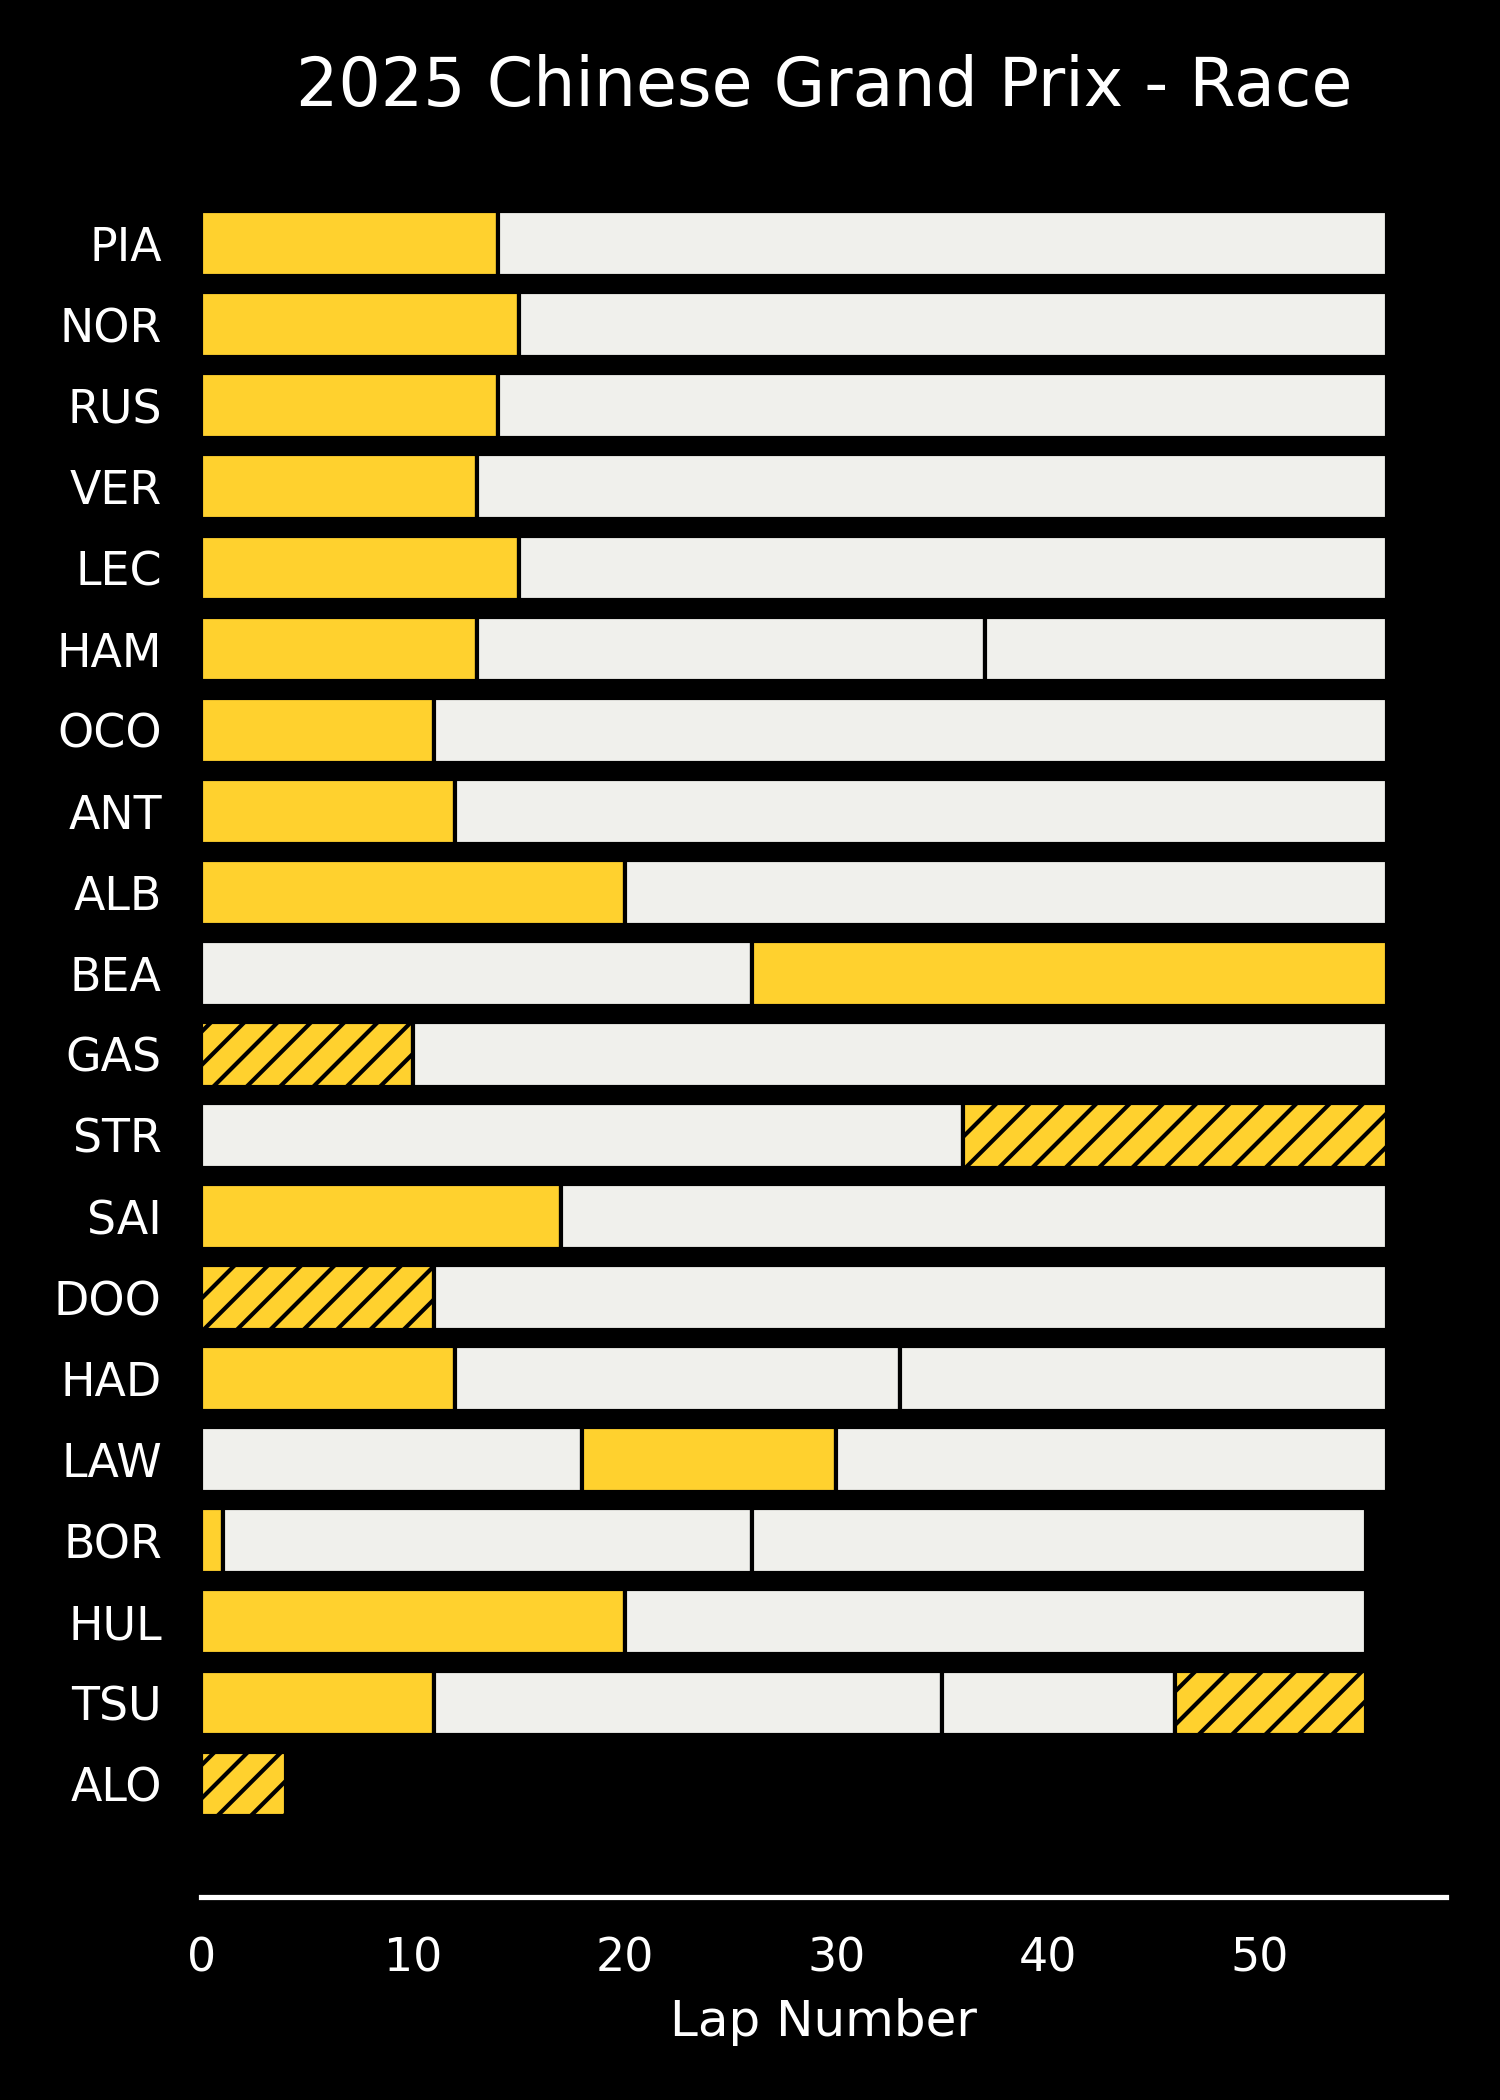
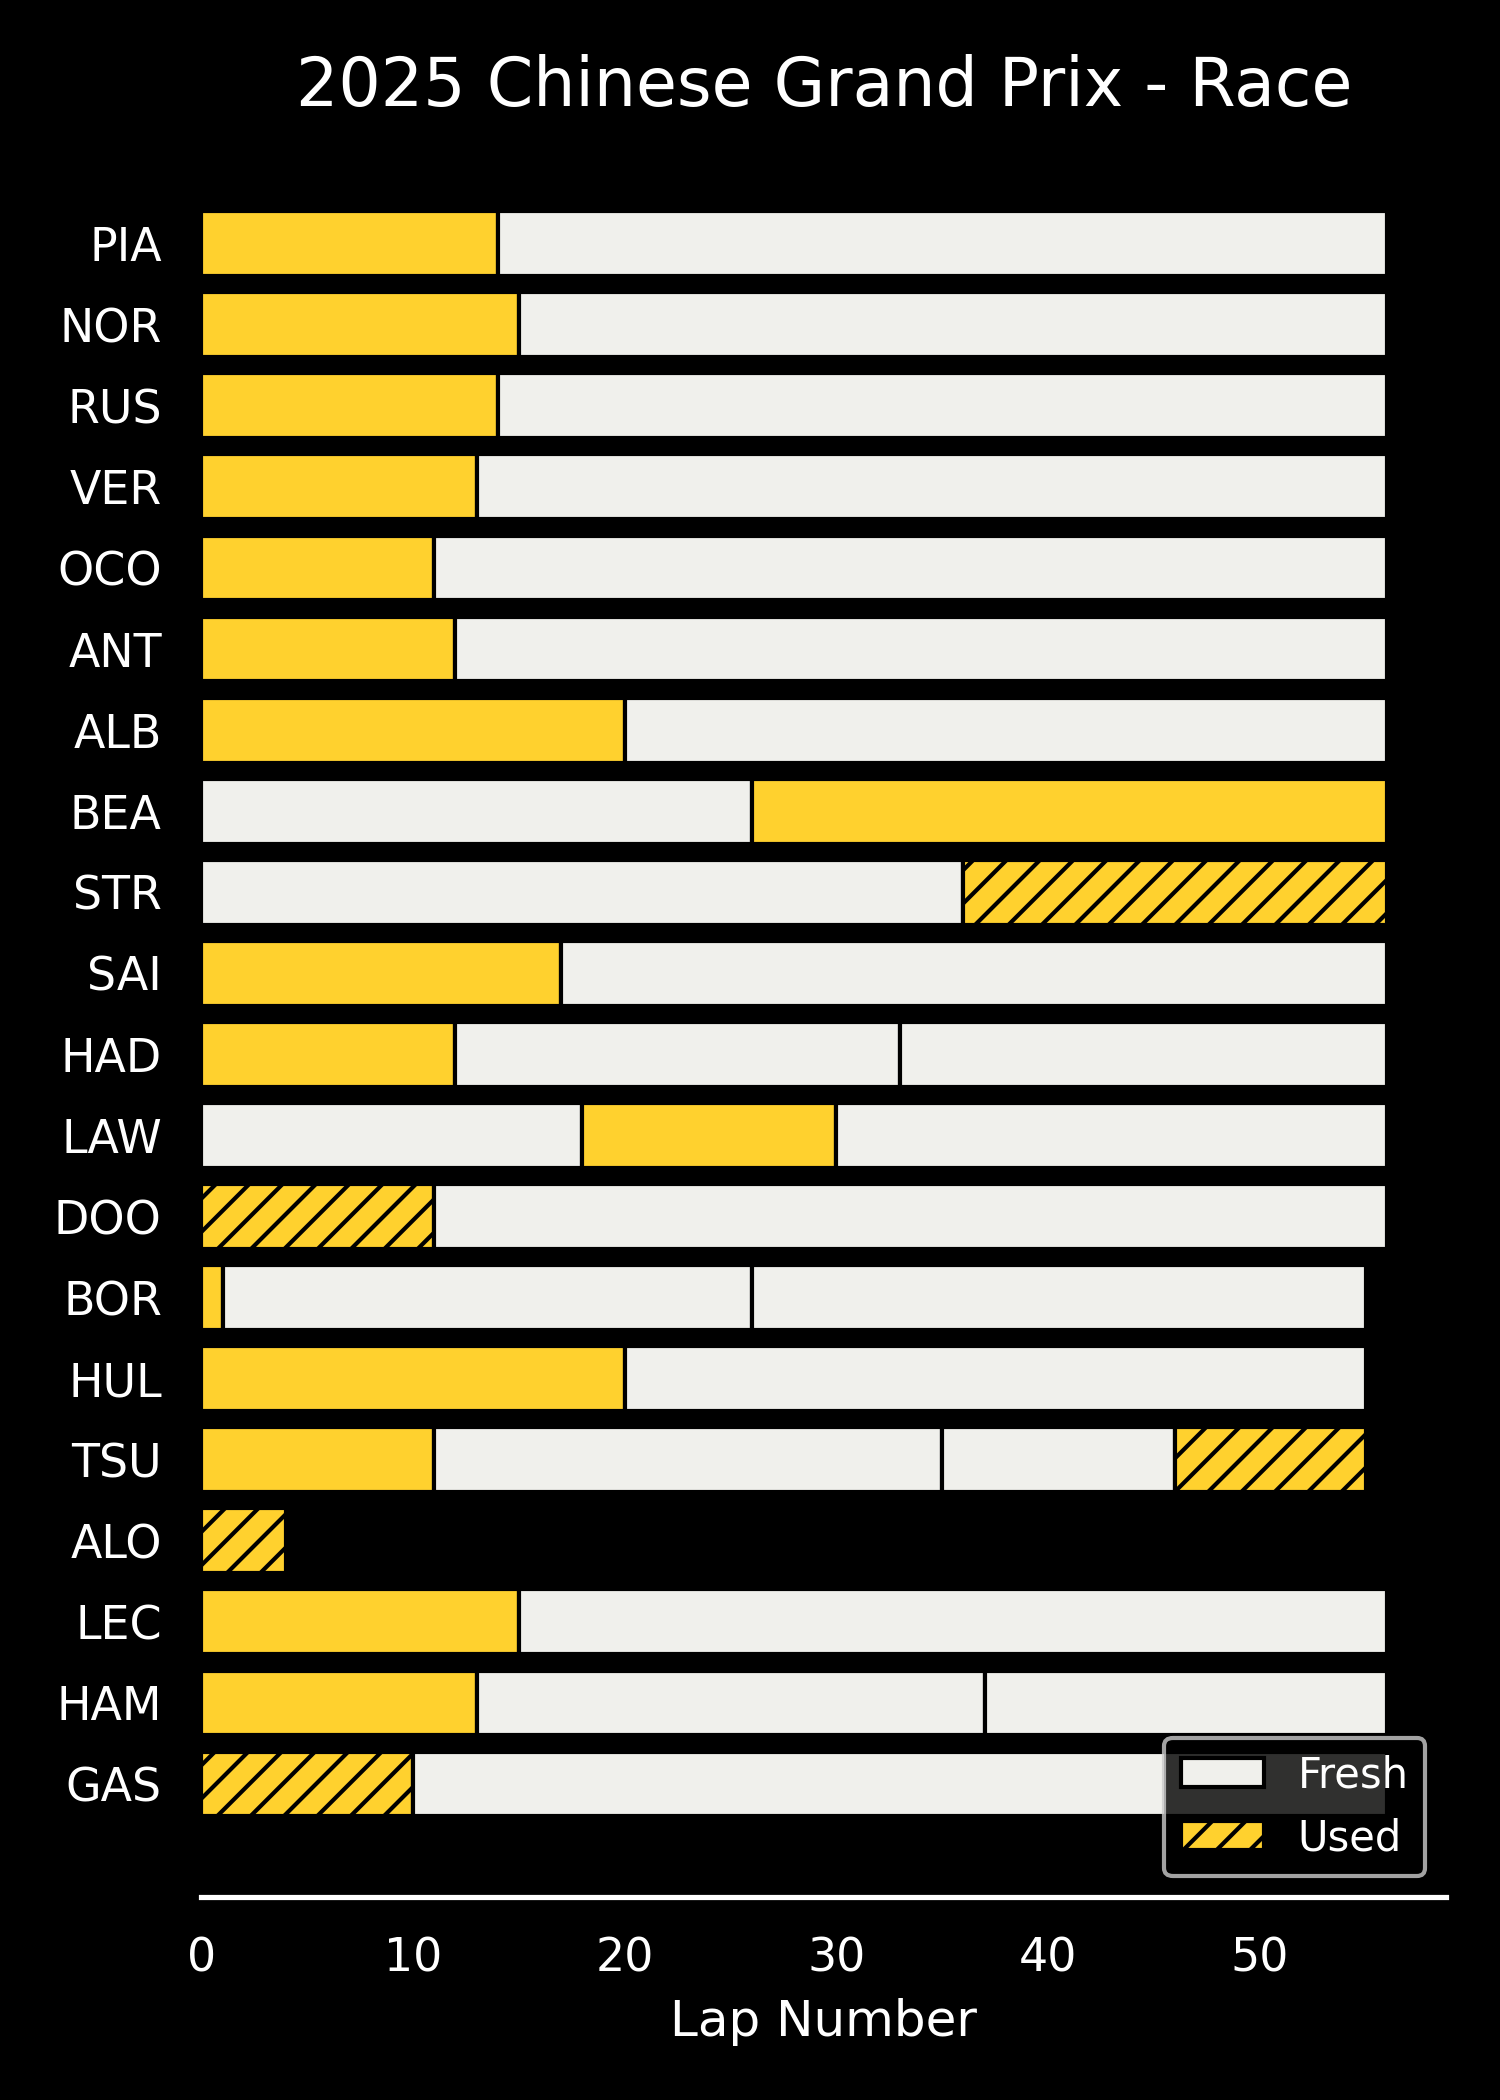
Add FreshTyre legend to strategy plot

Changed region(s): [[0.0307, 0.2476, 0.9507, 0.8976], [0.4907, 0.3714, 0.9507, 0.4952], [0.6133, 0.5262, 0.9507, 0.5571]]

diff --git a/f1_visualization/visualization.py b/f1_visualization/visualization.py
@@ -501,14 +501,11 @@ def _shade_sc_periods(sc_laps: np.ndarray, vsc_laps: np.ndarray):
     plot_periods(vsc_laps, "VSC", "-")
 
 
-def _deduplicate_sc_legend(ax: Axes, **kwargs):
+def _deduplicate_legend_labels(ax: Axes, **kwargs):
     """
-    Deduplicate SC legend labels and add legend to the current plot.
+    Add legend to the current plot after deduplicating labels.
 
-    Since the SC and VSC intervals are added to the plots one-by-one, if we call
-    plt.legend() directly there will be duplicate labels in the legend.
-
-    Additional keyword arguments are passed to plt.legend.
+    Useful when labelled elements are added one-by-one, such as when showing SC periods.
     """
     handles, labels = ax.get_legend_handles_labels()
     if labels:
@@ -888,7 +885,7 @@ def driver_stats_lineplot(
 
     # shade SC periods
     _shade_sc_periods(sc_laps, vsc_laps)
-    _deduplicate_sc_legend(ax, loc="lower right", fontsize=10)
+    _deduplicate_legend_labels(ax, loc="lower right", fontsize=10)
 
     if grid in {"both", "x", "y"}:
         plt.grid(which="major", axis=grid)
@@ -1086,17 +1083,17 @@ def strategy_barplot(
                 edgecolor="black",
                 fill=True,
                 hatch=VISUAL_CONFIG["fresh"]["hatch"][stint["FreshTyre"]],
+                label="Fresh" if stint["FreshTyre"] == "True" else "Used",
             )
 
             previous_stint_end += stint["StintLength"]
 
     _shade_sc_periods(*find_sc_laps(included_laps))
+    _deduplicate_legend_labels(ax, loc="lower right", fontsize=10)
 
     plt.title(f"{season} {event_name}", fontsize=16)
     plt.xlabel("Lap Number")
     plt.grid(False)
-
-    _deduplicate_sc_legend(ax, loc="lower right", fontsize=10)
 
     # Invert y-axis
     ax.invert_yaxis()

diff --git a/reddit_machine.py b/reddit_machine.py
@@ -36,10 +36,7 @@ def main():
     images = [
         {
             "image_path": VISUALS_PATH / "strategy.png",
-            "caption": (
-                "Tyre strategy recap. Stripped bar sections represent used tyre stints. "
-                f"{dashboard_link}"
-            ),
+            "caption": f"Tyre strategy recap. {dashboard_link}",
         },
         {
             "image_path": VISUALS_PATH / "podium_gap.png",
